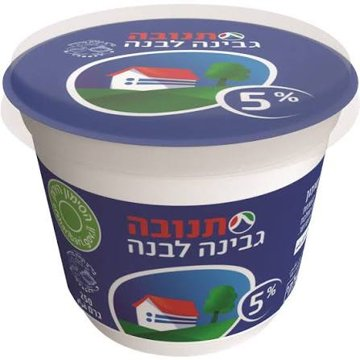
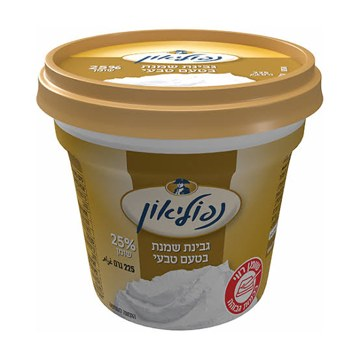
Split white cheese from cream cheese
גבינה לבנה is now white cheese with its own photo; גבינת שמנת is cream cheese with the new photo.

diff --git a/translate.js b/translate.js
@@ -3,7 +3,7 @@
 // shortcut: only the words listed here translate, add more as they come up.
 export const HE_TO_EN = {
   'חלב': 'milk', 'חלב סויה': 'soy milk', 'חלב דל לקטוז': 'lactose-free milk', 'לחם': 'bread', 'חלה': 'challah bread', 'פיתה': 'pita', 'פיתות': 'pita',
-  'ביצה': 'egg', 'ביצים': 'egg', 'גבינה': 'cheese', 'גבינה צהובה': 'cheese', 'פרמזן': 'parmesan', 'סרדיניים': 'clupeidae', 'סרדינים': 'clupeidae', 'טונה': 'tuna', 'גבינה לבנה': 'cream cheese', 'בשר טחון': 'ground meat', 'חזה הודו': 'turkey breast', 'חזה עוף': 'chicken breast', 'שוקיים עוף': 'chicken drumsticks', 'כרעיים עוף': 'chicken leg quarters', 'לחם כוסמין': 'spelt bread', 'סלמון': 'salmon', 'סלמון מעושן': 'smoked salmon', 'בגט': 'baguette', 'שזיף': 'plum', 'קוטג\'': 'cottage', 'קוטג': 'cottage', 'קוטג׳': 'cottage', 'קוטג\'5%': 'cottage','קוטג 5%': 'cottage',
+  'ביצה': 'egg', 'ביצים': 'egg', 'גבינה': 'cheese', 'גבינה צהובה': 'cheese', 'פרמזן': 'parmesan', 'סרדיניים': 'clupeidae', 'סרדינים': 'clupeidae', 'טונה': 'tuna', 'גבינה לבנה': 'white cheese', 'גבינת שמנת': 'cream cheese', 'בשר טחון': 'ground meat', 'חזה הודו': 'turkey breast', 'חזה עוף': 'chicken breast', 'שוקיים עוף': 'chicken drumsticks', 'כרעיים עוף': 'chicken leg quarters', 'לחם כוסמין': 'spelt bread', 'סלמון': 'salmon', 'סלמון מעושן': 'smoked salmon', 'בגט': 'baguette', 'שזיף': 'plum', 'קוטג\'': 'cottage', 'קוטג': 'cottage', 'קוטג׳': 'cottage', 'קוטג\'5%': 'cottage','קוטג 5%': 'cottage',
   'יוגורט': 'yogurt', 'חמאה': 'butter', 'שמנת': 'cream', 'גלידה': 'ice cream',
   'עגבנייה': 'tomato', 'עגבניות שרי': 'cherry tomato', 'עגבניות': 'tomato', 'מלפפון': 'cucumber', 'צ\'יה': 'chia seed', 'צ׳יה': 'chia seed', 'סודה לשתייה': 'baking soda', 'כרוב לבן': 'white cabbage', 'כרוב אדום': 'red cabbage', 'טבליות למדיח': 'dishwasher tablets', 'מלפפונים': 'cucumber',
   'בצל יבש': 'onion', 'בצל': 'onion', 'שום': 'garlic', 'תפוח': 'apple', 'תפוחים': 'apple',
@@ -61,7 +61,7 @@ export function translateItem(name) {
 export const GROUP_FOR = {
   'Fruits': ['apple', 'banana', 'orange', 'lemon', 'clementine', 'apricot', 'strawberry', 'grapes', 'peach', 'plum', 'avocado', 'kiwi', 'pomegranate'],
   'Vegetables': ['tomato', 'cherry tomato', 'cucumber', 'onion', 'red onion', 'green onion', 'garlic', 'potato', 'sweet potato', 'carrot', 'radish', 'celery', 'celery hearts', 'ginger', 'courgette', 'zucchini', 'lettuce', 'romaine lettuce', 'iceberg lettuce', 'pepper', 'chili pepper', 'corn', 'parsley', 'coriander', 'dill', 'white cabbage', 'red cabbage'],
-  'Dairy & Eggs': ['milk', 'soy milk', 'lactose-free milk', 'egg', 'cheese', 'parmesan', 'cream cheese', 'cottage', 'yogurt', 'butter', 'cream', 'cooking cream'],
+  'Dairy & Eggs': ['milk', 'soy milk', 'lactose-free milk', 'egg', 'cheese', 'parmesan', 'cream cheese', 'white cheese', 'cottage', 'yogurt', 'butter', 'cream', 'cooking cream'],
   'Meat & Fish': ['barramundi', 'mackerel', 'meat', 'ground meat', 'chicken', 'chicken breast', 'chicken drumsticks', 'chicken leg quarters', 'turkey breast', 'fish', 'salmon', 'smoked salmon', 'tuna', 'clupeidae', 'sausage'],
   'Bakery': ['bread', 'challah bread', 'pita', 'baguette', 'spelt bread'],
   'Pantry': ['rice', 'pasta', 'breadcrumbs', 'buckwheat', 'chia seed', 'baking soda', 'flour', 'sugar', 'salt', 'oil', 'olive oil', 'ketchup', 'mayonnaise', 'hummus', 'tahini', 'olive', 'cookie', 'biscuit', 'chocolate', 'snack', 'coffee', 'tea'],

diff --git a/icons.js b/icons.js
@@ -17,6 +17,7 @@ export const ICON_FOR = {
   'turkey breast': 'photos/turkey-breast-own.jpg',
   'ground meat': 'photos/ground-meat-own.jpg',
   'cream cheese': 'photos/cream-cheese-own.jpg',
+  'white cheese': 'photos/white-cheese-own.jpg',
   'tuna': 'photos/tuna-own.jpg',
   'clupeidae': 'photos/clupeidae-own.jpg',
   'cottage': 'photos/cottage-own.jpg',

diff --git a/GroceryApp.md b/GroceryApp.md
@@ -20,7 +20,7 @@ v1 with Firebase sync: the list and saved orders live in one Firestore document,
 - `sw.js` - service worker: network-first; the cached app shell is used only when offline.
 - `manifest.webmanifest` - PWA metadata (name, colours, standalone display, icons). Chrome needs a PNG icon of at least 192 px to offer install, so `icon-512.png` is listed first.
 - `icon-512.png` - app icon (512 px PNG), drawn to match `icon.svg`.
-- Potato, tomato and cherry tomato use the owner's own photos (`photos/potato-own.jpg`, `photos/tomato-own.jpg`, `photos/cherry-tomato-own.jpg`, `photos/chili-pepper-own.jpg`, `photos/grapes-own.jpg`, `photos/clementine-own.jpg`, `photos/laundry-detergent-own.jpg`, `photos/oil-own.jpg`, `photos/parmesan-own.jpg`, `photos/sweet-potato-own.jpg`, `photos/cheese-own.jpg`, `photos/cottage-own.jpg`, `photos/clupeidae-own.jpg`, `photos/tuna-own.jpg`, `photos/cream-cheese-own.jpg`, `photos/ground-meat-own.jpg`, `photos/turkey-breast-own.jpg`, `photos/chicken-breast-own.jpg`, `photos/drumsticks-own.jpg`, `photos/leg-quarters-own.jpg`, `photos/spelt-bread-own.jpg`, `photos/salmon-own.jpg`, `photos/smoked-salmon-own.jpg`, `photos/baguette-own.jpg`, `photos/plum-own.jpg`, `photos/celery-own.jpg`, `photos/celery-hearts-own.jpg`, `photos/kiwi-own.jpg`, `photos/hummus-own.jpg`, `photos/tahini-own.jpg`, `photos/buckwheat-own.jpg`, `photos/ginger-own.jpg`, `photos/mackerel-own.jpg`, `photos/mayonnaise-own.jpg`, `photos/ketchup-own.jpg`, `photos/chicken-own.jpg`, `photos/sausage-own.jpg`, `photos/feta-sheep-cheese-own.jpg`, `photos/courgette-own.jpg`, `photos/zucchini-own.jpg`, `photos/barramundi-own.jpg`, `photos/cooking-cream-own.jpg`, `photos/pomegranate-own.jpg`, `photos/breadcrumbs-own.jpg`).
+- Potato, tomato and cherry tomato use the owner's own photos (`photos/potato-own.jpg`, `photos/tomato-own.jpg`, `photos/cherry-tomato-own.jpg`, `photos/chili-pepper-own.jpg`, `photos/grapes-own.jpg`, `photos/clementine-own.jpg`, `photos/laundry-detergent-own.jpg`, `photos/oil-own.jpg`, `photos/parmesan-own.jpg`, `photos/sweet-potato-own.jpg`, `photos/cheese-own.jpg`, `photos/cottage-own.jpg`, `photos/clupeidae-own.jpg`, `photos/tuna-own.jpg`, `photos/cream-cheese-own.jpg`, `photos/ground-meat-own.jpg`, `photos/turkey-breast-own.jpg`, `photos/chicken-breast-own.jpg`, `photos/drumsticks-own.jpg`, `photos/leg-quarters-own.jpg`, `photos/spelt-bread-own.jpg`, `photos/salmon-own.jpg`, `photos/smoked-salmon-own.jpg`, `photos/baguette-own.jpg`, `photos/plum-own.jpg`, `photos/celery-own.jpg`, `photos/celery-hearts-own.jpg`, `photos/kiwi-own.jpg`, `photos/hummus-own.jpg`, `photos/tahini-own.jpg`, `photos/buckwheat-own.jpg`, `photos/ginger-own.jpg`, `photos/mackerel-own.jpg`, `photos/mayonnaise-own.jpg`, `photos/ketchup-own.jpg`, `photos/chicken-own.jpg`, `photos/sausage-own.jpg`, `photos/feta-sheep-cheese-own.jpg`, `photos/white-cheese-own.jpg`, `photos/courgette-own.jpg`, `photos/zucchini-own.jpg`, `photos/barramundi-own.jpg`, `photos/cooking-cream-own.jpg`, `photos/pomegranate-own.jpg`, `photos/breadcrumbs-own.jpg`).
 - The list shows the English name from the Hebrew label when known (`englishName` in grocery.html), so older rows update without re-adding.
 - Pictures are looked up by the English name (`bilingual(name).name`), so Hebrew suggestions get pictures too.
 - English item names are singular (Cucumber, Tomato, Apple); the quantity box handles counts.

diff --git a/photos/CREDITS.md b/photos/CREDITS.md
@@ -47,6 +47,7 @@ Photos from Wikimedia Commons, each used under the licence listed. Images were r
 - **cottage cheese** - [Cottage Cheese.jpg](https://commons.wikimedia.org/wiki/File:Cottage_Cheese.jpg) by Stu Spivack - flickr.com, CC BY-SA 2.0
 - **cream** - [Pudding Dessert with Whipped Cream.jpg](https://commons.wikimedia.org/wiki/File:Pudding_Dessert_with_Whipped_Cream.jpg) by Karl Thomas Moore, CC BY-SA 4.0
 - **cream cheese** - Cream cheese (owner's own photo), project owner, Owner's own photo
+- **white cheese** - White cheese (owner's own photo), project owner, Owner's own photo
 - **cucumber** - [Cucumber Slices (Alabama Extension).jpg](https://commons.wikimedia.org/wiki/File:Cucumber_Slices_(Alabama_Extension).jpg) by Alabama Extension, CC0
 - **dill** - [Aneth FR 2012.jpg](https://commons.wikimedia.org/wiki/File:Aneth_FR_2012.jpg) by JLPC, CC BY-SA 3.0
 - **dishwasher tablets** - Dishwasher tablets (owner's own photo), project owner, Owner's own photo
